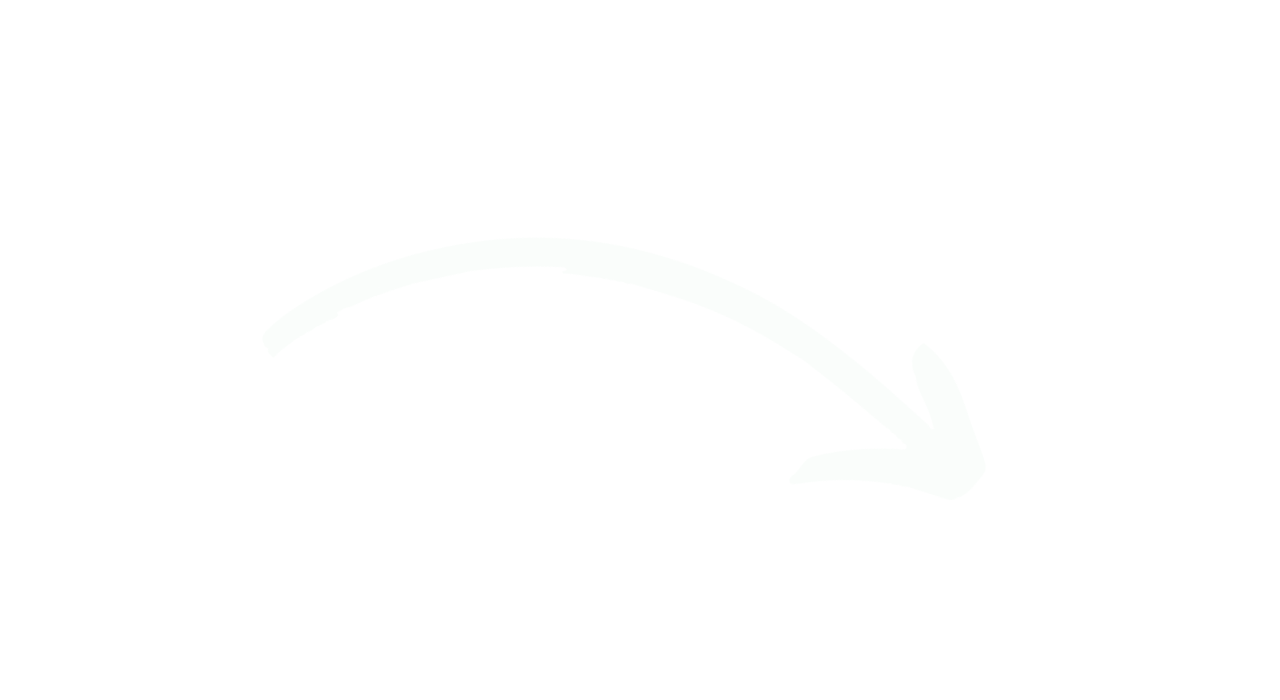
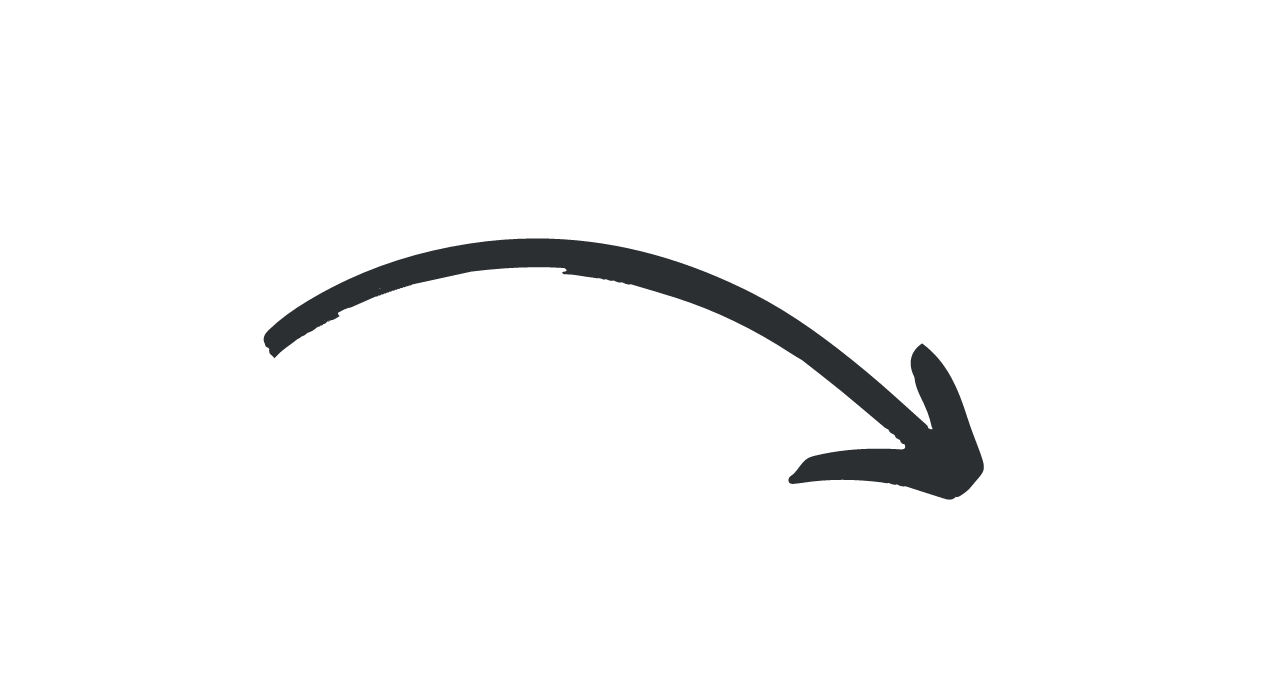
fix: arrow & colors

Changed region(s): [[0.1875, 0.33, 0.7812, 0.72]]

diff --git a/style/style.css b/style/style.css
@@ -1,13 +1,13 @@
 @import url('https://fonts.googleapis.com/css2?family=PT+Sans&display=swap');
 
 body{
-    background-color: #4070d5;
+    background-color: #ff9c00;
     max-width: 80vw;
     height: 90vh;
 }
 
 h1{
-    color: #fff;
+    color: #2c2f32;
     font-size: 3rem;
     text-align: center;
     margin-top: 5%;

diff --git a/README.md b/README.md
@@ -79,6 +79,8 @@ Introducing MintBuddy, the ultimate blockchain chatbot designed to simplify the 
 ### Built With
 
 * [![Next][Next.js]][Next-url]
+* VoiceFlow
+* AWS
 
 <p align="right">(<a href="#readme-top">back to top</a>)</p>
 
